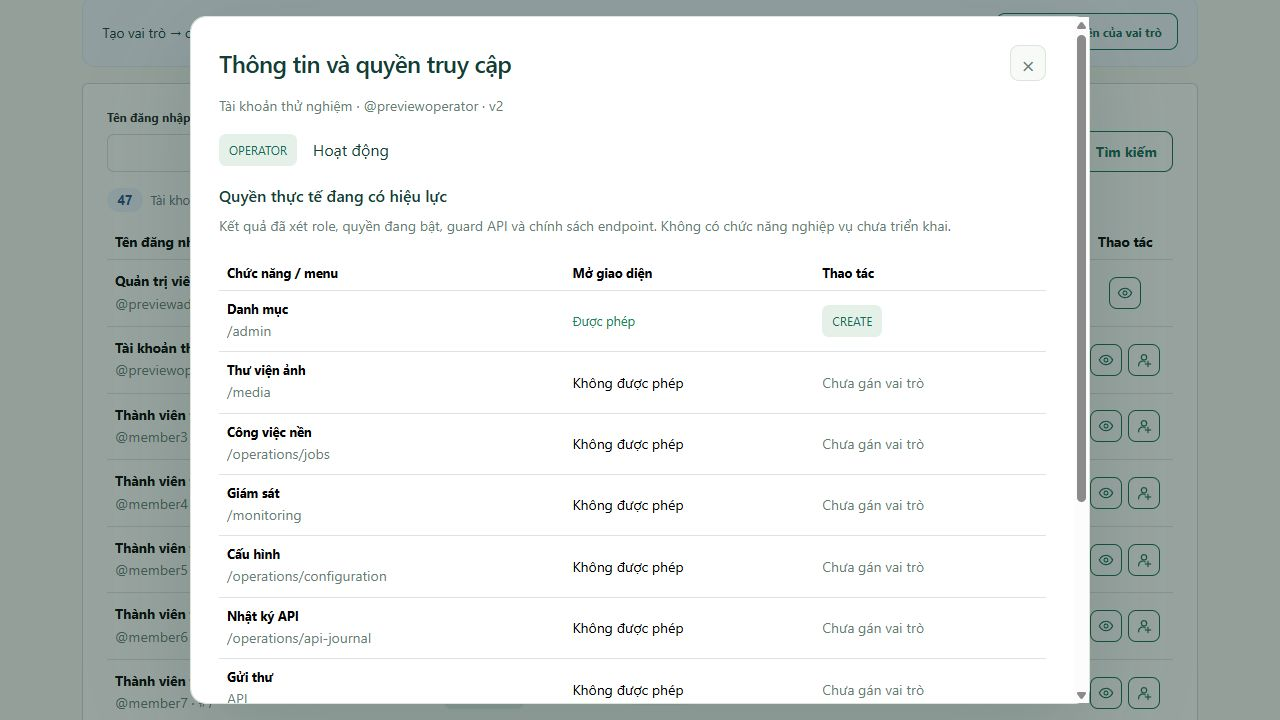
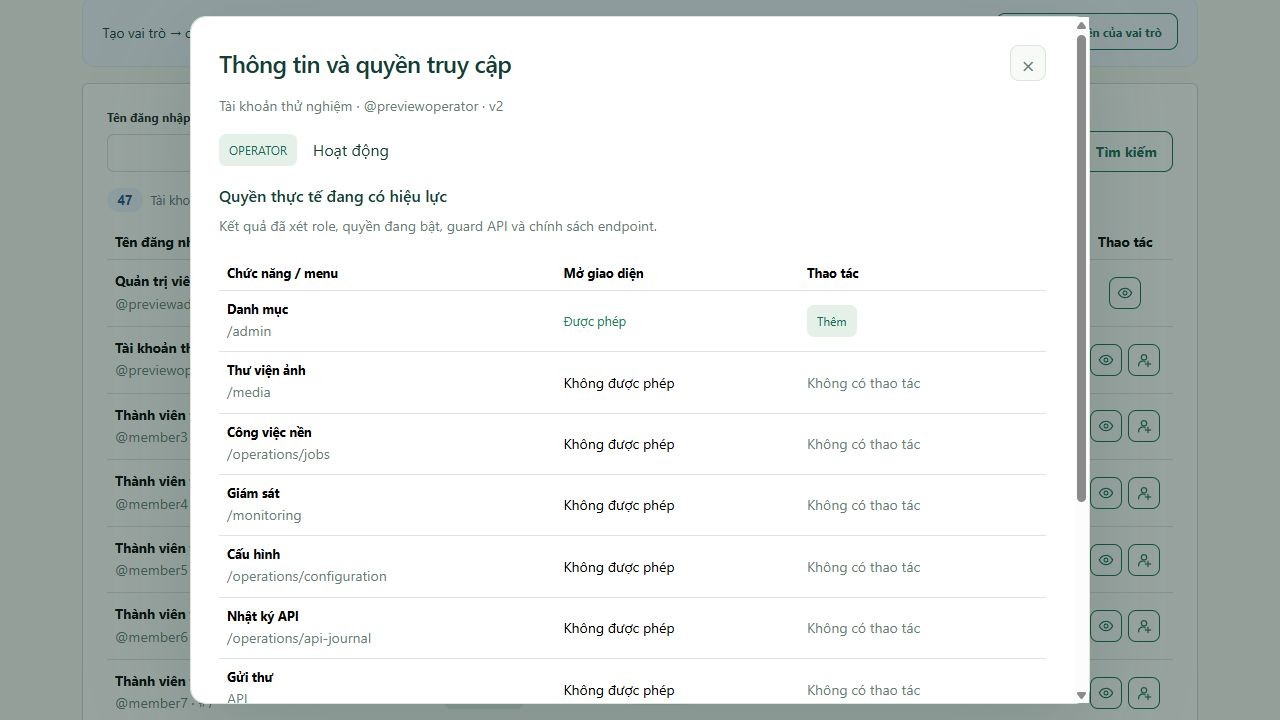
Sửa quota đọc tài khoản và cô lập fixture tạo tài xế (ACCESS05)
Thay đổi:
- GET tìm/phân trang tài khoản không dùng quota credential; POST tạo tài khoản/đổi mật khẩu vẫn giới hạn BCrypt.
- Bộ lọc role/trạng thái rỗng được binding hợp lệ, role sai định dạng bị từ chối; client bỏ tham số rỗng và hiển thị thời gian theo locale.
- Tự tạo role fixture riêng và chạy kiểm cấp tài xế trước bộ kiểm xóa DRIVER; gỡ liên kết DRIVER qua API sau kiểm, giữ nguyên guard và tombstone.
- Cập nhật ảnh UI và tiến độ PR #56.

Kiểm tra:
- Maven verify đạt 125 Java, 24 Node; format/check:rules/check:docs (272 link/34 tài liệu), actionlint/bash syntax/diff check.
- Hai context kiểm GET role/trạng thái rỗng và role sai; quota regression chứng minh GET không bị quota credential chặn.
- CI head trước build Docker và bộ kiểm nền/cây đạt; phần tạo DRIVER bị chặn do fixture role đã xóa. Chờ CI head mới; không ghi Neon hoặc gọi provider.

diff --git a/src/main/webapp/assets/js/accounts.js b/src/main/webapp/assets/js/accounts.js
@@ -8,6 +8,7 @@
         forms = window.VietRouteForms;
     const node = (id) => document.getElementById(id);
     const labels = node('accounts-labels').dataset;
+    const time = (value) => new Date(value).toLocaleString(document.documentElement.lang === 'en' ? 'en-GB' : 'vi-VN');
     const base = '/api/v1/admin/accounts',
         access = '/api/v1/admin/access';
     const get = async (path, params) => (await app.api.get(path, { params, timeout: 10000 })).data.data;
@@ -86,7 +87,14 @@
     };
     const status = (user) => (user.activationPending ? labels.pending : user.active ? labels.active : labels.inactive);
     const load = async (query = pager.query) => {
-        const page = await tables.readPage((params) => get(base, { ...applied, ...params }), query);
+        const page = await tables.readPage(
+            (params) =>
+                get(base, {
+                    ...Object.fromEntries(Object.entries(applied).filter(([, value]) => value !== '')),
+                    ...params,
+                }),
+            query,
+        );
         const body = node('accounts-body');
         body.replaceChildren();
         for (const user of page.content) {
@@ -102,9 +110,7 @@
             state.append(text('span', status(user), `account-badge ${user.active ? 'is-active' : 'is-inactive'}`));
             if (user.mustChangePassword) state.append(text('small', labels.passwordPending, 'd-block muted'));
             if (user.lockedUntil && Date.parse(user.lockedUntil) > Date.now())
-                state.append(
-                    text('small', `${labels.locked} ${new Date(user.lockedUntil).toLocaleString()}`, 'd-block muted'),
-                );
+                state.append(text('small', `${labels.locked} ${time(user.lockedUntil)}`, 'd-block muted'));
             const actions = text('td', '', 'table-actions'),
                 buttons = text('div', '', 'row-actions');
             buttons.append(
@@ -120,7 +126,7 @@
                     tables.actionButton(`${labels.assign}: ${user.username}`, 'assign', () => openEditor(user), false),
                 );
             actions.append(buttons);
-            row.append(identity, role, state, text('td', new Date(user.updatedAt).toLocaleString()), actions);
+            row.append(identity, role, state, text('td', time(user.updatedAt)), actions);
             body.append(row);
         }
         if (!page.content.length) {

diff --git a/src/test/java/vn/vietroute/ManagedAccountSecurityTest.java b/src/test/java/vn/vietroute/ManagedAccountSecurityTest.java
@@ -31,6 +31,7 @@ import vn.vietroute.auth.dto.request.ManagedAccountCreateRequest;
 import vn.vietroute.auth.dto.request.ManagedAccountSearchRequest;
 import vn.vietroute.auth.dto.response.AccessPolicyResponse;
 import vn.vietroute.auth.dto.response.AccessResourceResponse;
+import vn.vietroute.auth.dto.response.ManagedAccountResponse;
 import vn.vietroute.auth.entity.Permission;
 import vn.vietroute.auth.entity.Role;
 import vn.vietroute.auth.entity.UserAccount;
@@ -40,6 +41,7 @@ import vn.vietroute.auth.security.UserPrincipal;
 import vn.vietroute.auth.service.AccessManagementService;
 import vn.vietroute.auth.service.JwtService;
 import vn.vietroute.auth.service.ManagedAccountService;
+import vn.vietroute.common.base.PageResponse;
 import vn.vietroute.common.config.RootConfig;
 import vn.vietroute.common.config.web.WebConfig;
 import vn.vietroute.common.constant.ApplicationConstants.Routes;
@@ -57,7 +59,7 @@ class ManagedAccountSecurityTest {
         ) {
             var web = new MockServletContext("src/main/webapp", new FileSystemResourceLoader());
             root.setServletContext(web);
-            root.register(RootConfig.class, AccessTestConfig.class, JournalTestConfig.class);
+            root.register(RootConfig.class, AccessTestConfig.class, JournalTestConfig.class, AccountPages.class);
             root.refresh();
             child.setServletContext(web);
             child.setParent(root);
@@ -114,6 +116,26 @@ class ManagedAccountSecurityTest {
                 root.getBean(ManagedAccountService.class).page(new ManagedAccountSearchRequest())
             );
             SecurityContextHolder.clearContext();
+            var adminRead = actor("ROLE_ADMIN", "ACCOUNT_READ");
+            for (String role : List.of("", "DRIVER"))
+                assertEquals(
+                    200,
+                    mvc
+                        .perform(
+                            get(Routes.ACCOUNTS).param("role", role).param("active", "").with(authentication(adminRead))
+                        )
+                        .andReturn()
+                        .getResponse()
+                        .getStatus()
+                );
+            assertEquals(
+                400,
+                mvc
+                    .perform(get(Routes.ACCOUNTS).param("role", "bad!").with(authentication(adminRead)))
+                    .andReturn()
+                    .getResponse()
+                    .getStatus()
+            );
             var adminView = actor("ROLE_ADMIN", "ACCOUNT_VIEW");
             var html = mvc
                 .perform(get(Routes.ACCOUNTS_PAGE).with(authentication(adminView)))
@@ -347,6 +369,22 @@ class ManagedAccountSecurityTest {
             .createdBy(0L)
             .updatedBy(0L)
             .build();
+    }
+
+    /** Chỉ thay DAO trang, giữ binding và toàn bộ guard thật cho bộ lọc rỗng/không hợp lệ. */
+    @Configuration
+    static class AccountPages {
+
+        @Bean
+        @Primary
+        ManagedAccountRepository accountPages() {
+            return new ManagedAccountRepository(null) {
+                @Override
+                public PageResponse<ManagedAccountResponse> page(ManagedAccountSearchRequest page) {
+                    return PageResponse.of(List.of(), page, 0);
+                }
+            };
+        }
     }
 
     @Configuration

diff --git a/src/test/java/vn/vietroute/TrafficGuardTest.java b/src/test/java/vn/vietroute/TrafficGuardTest.java
@@ -23,6 +23,8 @@ import org.springframework.mock.web.MockHttpServletRequest;
 import org.springframework.mock.web.MockHttpServletResponse;
 import vn.vietroute.common.config.RootConfig;
 import vn.vietroute.common.config.traffic.TrafficSettings;
+import vn.vietroute.common.constant.ApplicationConstants.Env;
+import vn.vietroute.common.constant.ApplicationConstants.Routes;
 import vn.vietroute.common.monitoring.service.ApiJournalProjection;
 import vn.vietroute.common.traffic.ClientAddressResolver;
 import vn.vietroute.common.traffic.MemoryRateLimitStore;
@@ -97,6 +99,28 @@ class TrafficGuardTest {
         request.removeHeader("X-Forwarded-For");
         request.addHeader("X-Forwarded-For", "198.51.100.1, 192.0.2.8");
         assertEquals("192.0.2.8", new ClientAddressResolver("10.0.0.0/8").resolve(request));
+    }
+
+    /** Duyệt/tìm trang không chiếm quota BCrypt; POST tạo tài khoản vẫn bị chặn khi vượt ngân sách credential. */
+    @Test
+    void accountReadsDoNotSpendCredentialQuotaButCreatesDo() throws Exception {
+        var guard = filter(
+            Map.of(Env.RATE_LOGINS.key(), "1", Env.RATE_REQUESTS.key(), "100"),
+            new MemoryRateLimitStore(Clock.systemUTC(), 100)
+        );
+        for (int index = 0; index < 3; index++) {
+            var response = new MockHttpServletResponse();
+            guard.doFilter(new MockHttpServletRequest("GET", Routes.ACCOUNTS), response, (req, res) -> {});
+            assertEquals(200, response.getStatus());
+        }
+        for (int index = 0; index < 2; index++) {
+            var response = new MockHttpServletResponse();
+            guard.doFilter(new MockHttpServletRequest("POST", Routes.ACCOUNTS), response, (req, res) -> {});
+            assertEquals(index == 0 ? 200 : 429, response.getStatus());
+        }
+        var readAfterCreate = new MockHttpServletResponse();
+        guard.doFilter(new MockHttpServletRequest("GET", Routes.ACCOUNTS), readAfterCreate, (req, res) -> {});
+        assertEquals(200, readAfterCreate.getStatus());
     }
 
     @Test

diff --git a/src/main/java/vn/vietroute/auth/repository/ManagedAccountRepository.java b/src/main/java/vn/vietroute/auth/repository/ManagedAccountRepository.java
@@ -35,7 +35,7 @@ public class ManagedAccountRepository extends BaseRepository {
     public PageResponse<ManagedAccountResponse> page(ManagedAccountSearchRequest page) {
         return read(connection -> {
             String where = " FROM auth_users u WHERE u.id<>? AND lower(u.username) LIKE ?";
-            if (page.getRole() != null) where +=
+            if (page.getRole() != null && !page.getRole().isBlank()) where +=
                 " AND EXISTS(SELECT 1 FROM auth_user_roles ur WHERE ur.user_id=u.id AND ur.role_code=?)";
             if (page.getActive() != null) where += " AND u.active=?";
             long total;
@@ -91,7 +91,7 @@ public class ManagedAccountRepository extends BaseRepository {
         query.setLong(1, SystemActor.ID);
         query.setString(2, page.getUsername().toLowerCase(Locale.ROOT) + "%");
         int index = 3;
-        if (page.getRole() != null) query.setString(index++, page.getRole().name());
+        if (page.getRole() != null && !page.getRole().isBlank()) query.setString(index++, page.getRole());
         if (page.getActive() != null) query.setBoolean(index++, page.getActive());
         return index;
     }

diff --git a/src/main/java/vn/vietroute/auth/dto/request/ManagedAccountSearchRequest.java b/src/main/java/vn/vietroute/auth/dto/request/ManagedAccountSearchRequest.java
@@ -1,9 +1,10 @@
 package vn.vietroute.auth.dto.request;
 
 import io.swagger.v3.oas.annotations.media.Schema;
+import jakarta.validation.constraints.Pattern;
 import lombok.Getter;
 import lombok.Setter;
-import vn.vietroute.auth.entity.Role;
+import vn.vietroute.common.constant.ApplicationConstants.Regex;
 
 /** Lọc danh tính quản trị bằng tham số bind JDBC; không nhận tên cột hoặc SQL từ client. */
 @Getter
@@ -12,7 +13,8 @@ import vn.vietroute.auth.entity.Role;
 public class ManagedAccountSearchRequest extends AccessUserSearchRequest {
 
     @Schema(description = "Lọc theo role đã gán; bỏ trống để xem tất cả", example = "DRIVER")
-    private Role role;
+    @Pattern(regexp = Regex.ROLE_SEARCH, message = "{validation.invalid}")
+    private String role;
 
     @Schema(description = "Trạng thái tài khoản; bỏ trống để lấy cả bật/tắt")
     private Boolean active;

diff --git a/src/main/java/vn/vietroute/common/web/routing/WebRoutePolicy.java b/src/main/java/vn/vietroute/common/web/routing/WebRoutePolicy.java
@@ -97,13 +97,14 @@ public final class WebRoutePolicy {
     }
 
     /** Các mutation dùng password/mã email cùng chịu quota và semaphore login để hạn chế spam/BCrypt CPU. */
-    public static boolean credentialMutation(String path) {
+    public static boolean credentialMutation(String path, String method) {
         return (
-            path.equals(Routes.AUTH_LOGIN) ||
-            path.equals(Routes.AUTH + Routes.AUTH_EMAIL) ||
-            path.equals(Routes.AUTH + Routes.PASSWORD_ACTION) ||
-            path.equals(Routes.ACCOUNTS) ||
-            publicAccountFlow(path)
+            method.equals("POST") &&
+            (path.equals(Routes.AUTH_LOGIN) ||
+                path.equals(Routes.AUTH + Routes.AUTH_EMAIL) ||
+                path.equals(Routes.AUTH + Routes.PASSWORD_ACTION) ||
+                path.equals(Routes.ACCOUNTS) ||
+                publicAccountFlow(path))
         );
     }
 }

diff --git a/src/main/java/vn/vietroute/common/traffic/TrafficGuardFilter.java b/src/main/java/vn/vietroute/common/traffic/TrafficGuardFilter.java
@@ -56,7 +56,7 @@ public final class TrafficGuardFilter extends OncePerRequestFilter {
             chain.doFilter(request, response);
             return;
         }
-        boolean login = WebRoutePolicy.credentialMutation(path);
+        boolean login = WebRoutePolicy.credentialMutation(path, request.getMethod());
         boolean upload =
             (path.equals(Routes.MEDIA) || path.equals(Routes.AUTH + Routes.AUTH_AVATAR)) &&
             request.getMethod().equals("POST") &&

diff --git a/src/main/java/vn/vietroute/common/constant/ApplicationConstants.java b/src/main/java/vn/vietroute/common/constant/ApplicationConstants.java
@@ -271,6 +271,8 @@ public final class ApplicationConstants {
         public static final String ENV_KEY = "[A-Z][A-Z0-9_]*";
 
         public static final String ROLE_CODE = "[A-Z][A-Z0-9_]{1,23}";
+
+        public static final String ROLE_SEARCH = "(?:" + ROLE_CODE + ")?";
         public static final String PERMISSION_CODE = "[A-Z][A-Z0-9_]{1,38}_[A-Z]+";
 
         public static final String BUSINESS_CODE = "^[A-Z][A-Z0-9]{2,39}$";

diff --git a/docs/05-ke-hoach/TIEN_DO_VA_KE_HOACH_NHOM.md b/docs/05-ke-hoach/TIEN_DO_VA_KE_HOACH_NHOM.md
@@ -1,10 +1,10 @@
 # Tiến độ và kế hoạch triển khai của nhóm VietRoute
 
-## ACCESS05 — Đang kiểm trước PR
+## ACCESS05 — Đang kiểm PR #56
 
-hieuv526034, nhánh `hieuv526034/access05-tai-khoan-va-cay-quyen`, nền main `3b5b933`. Đã bổ sung khu tài khoản admin cấp DRIVER/CUSTOMER/nhiều role, khóa/mở + revoke JWT/challenge, preview capabilities theo policy user đích; ma trận menu/hành động và lối tạo role trực tiếp. Mật khẩu tạm bắt đổi trước chức năng, kể cả bootstrap còn flag. Không migration mới; không ghi Neon, không giả membership nhà xe. Chi tiết tại [thiết kế](../02-phat-trien/SCHEMA_VA_PHAN_QUYEN.md#quản-trị-tài-khoản-và-ma-trận-menu--access05).
+[PR #56](https://github.com/hieuv526034/vietroute-web/pull/56), [Issue #55](https://github.com/hieuv526034/vietroute-web/issues/55), hieuv526034, nhánh `hieuv526034/access05-tai-khoan-va-cay-quyen`, nền main `3b5b933`. Đã bổ sung khu tài khoản admin cấp DRIVER/CUSTOMER/nhiều role, khóa/mở + revoke JWT/challenge, preview capabilities theo policy user đích; ma trận menu/hành động và lối tạo role trực tiếp. Mật khẩu tạm bắt đổi trước chức năng, kể cả bootstrap còn flag. Không migration mới; không ghi Neon, không giả membership nhà xe. Chi tiết tại [thiết kế](../02-phat-trien/SCHEMA_VA_PHAN_QUYEN.md#quản-trị-tài-khoản-và-ma-trận-menu--access05).
 
-Đạt 124 Java/24 Node, npm ci/format/format:check/rules/docs (269 link, 34 tài liệu), actionlint/bash syntax/diff. UI fixture HTML thật kiểm desktop/390px: dấu bắt buộc, nhiều role, loading chặn Escape, 409 giữ draft, lọc nhóm ma trận/gợi VIEW và console sạch; ảnh ở chuyên đề UI. Còn Docker/PostgreSQL CI đúng head rồi PR/merge; chưa ghi Đã có trên main. SCOPE01/AUTH03 hồ sơ/membership theo nhà xe vẫn còn, không coi DRIVER là scope.
+Đạt 125 Java/24 Node, npm ci/format/format:check/rules/docs (272 link, 34 tài liệu), actionlint/bash syntax/diff. UI fixture HTML thật kiểm desktop/390px: dấu bắt buộc, nhiều role, loading chặn Escape, 409 giữ draft, lọc nhóm ma trận/gợi VIEW và console sạch; ảnh ở chuyên đề UI. CI head đầu Docker build đạt và toàn bộ bộ kiểm nền/cây đạt, riêng tạo DRIVER bị từ chối đúng vì fixture Foundation đã xóa role này. Đã tách bộ kiểm tài khoản chạy trước tombstone, tự tạo role kiểm riêng và gỡ liên kết DRIVER qua API để không làm yếu guard/tombstone. Còn Docker/PostgreSQL CI đúng head mới rồi merge; chưa ghi Đã có trên main. SCOPE01/AUTH03 hồ sơ/membership theo nhà xe vẫn còn, không coi DRIVER là scope.
 
 ## ACCESS04 — Đã có trên main
 

diff --git a/docs/02-phat-trien/API_BASE.md b/docs/02-phat-trien/API_BASE.md
@@ -179,6 +179,6 @@ Permission là value object JSON string từ registry; constants/values() chỉ 
 | GET `/api/v1/admin/accounts/{id}/access` | ADMIN + ACCOUNT_READ | metadata và capabilities đã xét policy user đích; không token/credential |
 | PUT `/api/v1/admin/access/users/{id}/roles` | ACCESS_ASSIGN hoặc ACCESS_WRITE | Cơ chế gán hiện có: scope ủy quyền, version, chống tự sửa/nâng quyền; JWT cũ bị thu hồi |
 
-Mọi payload/tham số/projection được mô tả OpenAPI. ACCOUNT_* khai báo tập trung tại AccessConstants và Permission; sync enabled bổ sung registry/ADMIN khi startup. Không cần thay migration hiện hữu. POST cấp tài khoản và đổi mật khẩu đi qua quota/semaphore credential để giới hạn BCrypt đồng thời.
+Mọi payload/tham số/projection được mô tả OpenAPI. ACCOUNT_* khai báo tập trung tại AccessConstants và Permission; sync enabled bổ sung registry/ADMIN khi startup. Không cần thay migration hiện hữu. POST cấp tài khoản và đổi mật khẩu đi qua quota/semaphore credential để giới hạn BCrypt đồng thời; GET tìm tài khoản chỉ dùng quota request thông thường, không làm cạn quota đăng nhập.
 
 AUTH011 (403) yêu cầu đổi mật khẩu tạm. Filter xác minh token/DB rồi bỏ toàn bộ authority trong phiên hạn chế; chỉ mở GET hồ sơ/me, capabilities rỗng, đổi mật khẩu/logout, trang account và dữ liệu công khai. Quy tắc bắt đổi áp dụng cả bootstrap đang mang must_change_password=true; đổi xong mới dùng chức năng. Đừng hiểu accessToken nhận từ login mật khẩu tạm là đã có quyền quản trị. Nhật ký mặc định bỏ payload/response các DTO quản trị mới, không thêm password/PII vào projection.

diff --git a/docs/03-giao-dien/QUY_UOC_UI.md b/docs/03-giao-dien/QUY_UOC_UI.md
@@ -114,4 +114,4 @@ Màn phân quyền có nút Tạo vai trò trực tiếp và đường sang Tài
 
 Preview của tài khoản lấy capabilities từ server, không suy từ tên role hoặc raw permission ở trình duyệt. Phiên mật khẩu tạm không hiện chức năng được bảo vệ. HTML kiểm thử lấy từ Thymeleaf thật, API fixture chỉ dữ liệu giả; SQL/bảo mật có bộ kiểm riêng trên PostgreSQL Docker CI.
 
-Ảnh ACCESS05 từ fixture cô lập: [ma trận menu/hành động](../images/access05-matrix.png), [gán nhiều role và giữ bản nháp khi 409](../images/access05-assignment.png), [xem quyền tài khoản](../images/access05-account.png).
+Ảnh ACCESS05 từ fixture cô lập: [ma trận menu/hành động](../images/access05-matrix.png), [gán nhiều role và giữ bản nháp khi 409](../images/access05-assignment.png), [xem quyền tài khoản](../images/access05-account.png), [danh sách và trạng thái sau khóa](../images/access05-accounts.png).
